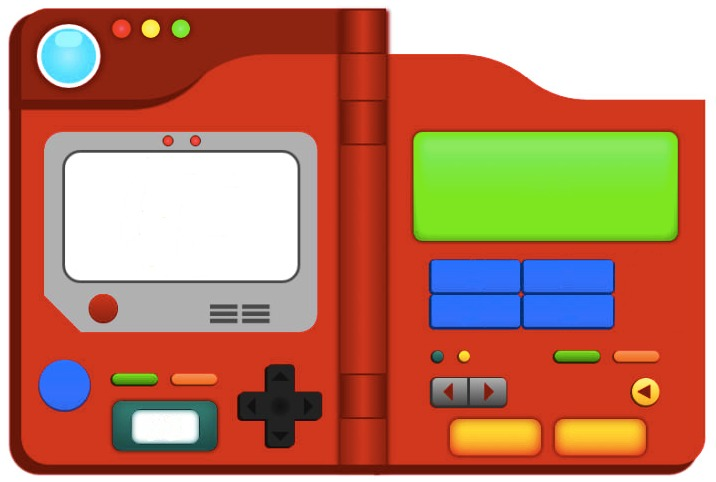
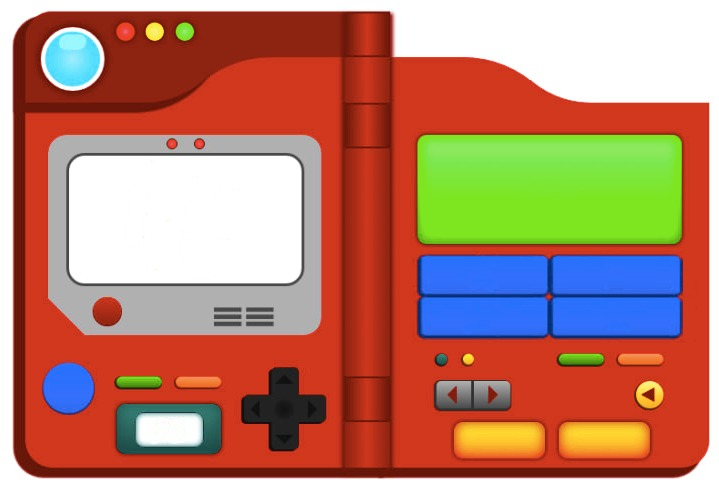
recent version design

diff --git a/style.css b/style.css
@@ -22,8 +22,8 @@ body{
 #prevEvolution{
     position:absolute;
     left:50%;
-    margin-left:120px;
-    top:230px;
+    margin-left:100px;
+    top:250px;
 }
 button {
     background: transparent;
@@ -57,4 +57,37 @@ button {
     margin-left:159px;
     top:222px;
     /* font-size: 16px;*/
+}
+@media screen and (max-width: 600px) {
+body{
+    background-color:#D2381E;
+    padding-left:2%;
+    background-image: none;
+}
+    #pokeImg{
+        border:red solid 1px;
+       margin-left:auto;
+       margin-right:auto;
+        width:200px;
+        height:200px;
+
+
+    }
+    #pokeMoves{
+        position:absolute;
+        top:354px;
+        /* font-size: 16px;*/
+    }
+    #pokeId{
+        position:absolute;
+        left:50%;
+        margin-left:-10px;
+        top:504px;
+        font-size: 18px;
+    }
+    #pokeName{
+        position:absolute;
+        top:222px;
+        /* font-size: 16px;*/
+    }
 }
